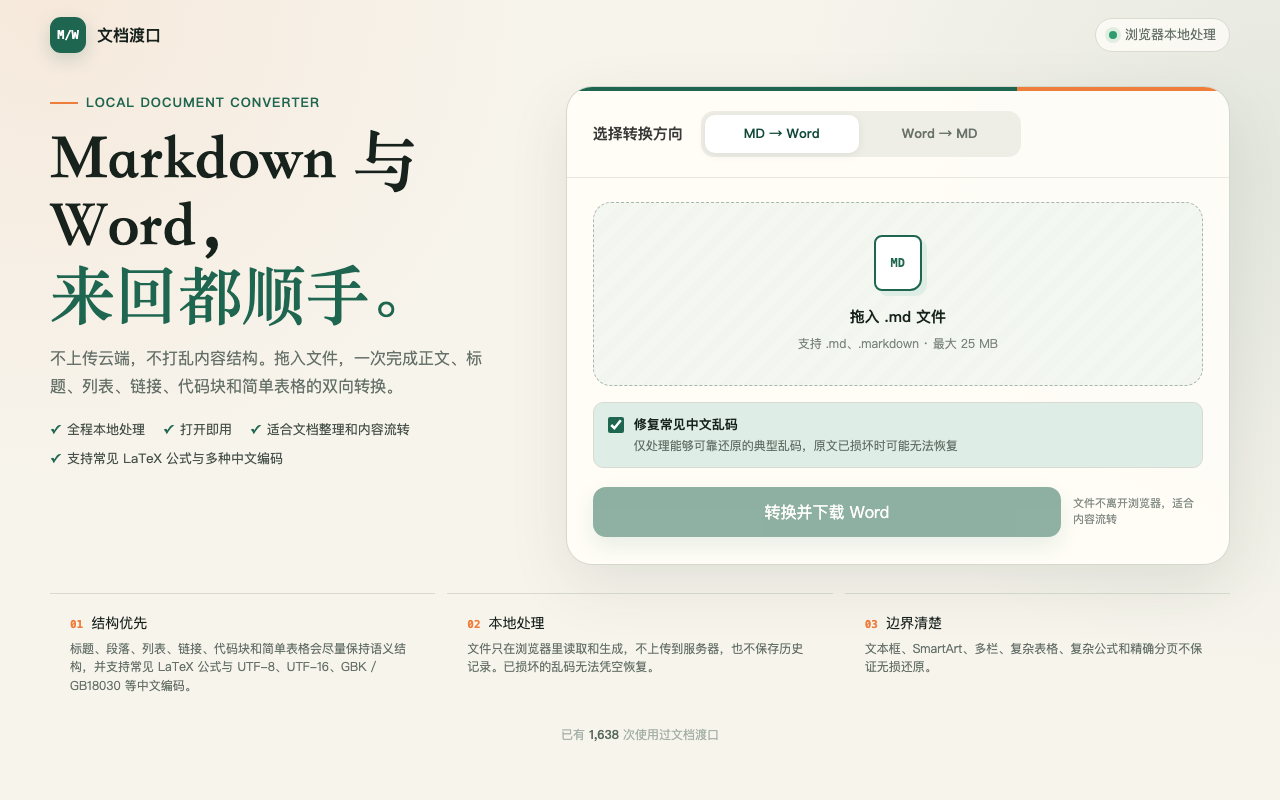
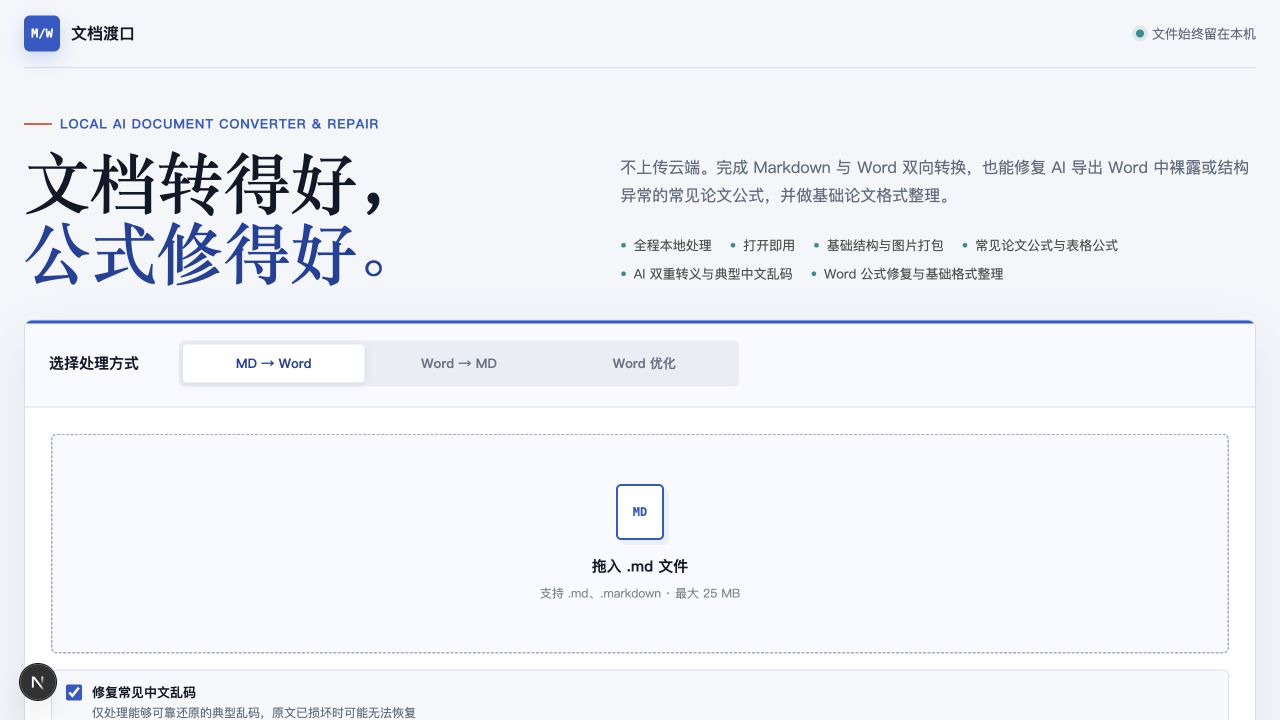
更新文档渡口作品集展示

diff --git a/app/content.ts b/app/content.ts
@@ -127,10 +127,10 @@ export const aiProjects = [
     status: "已上线",
     title: "文档渡口 · AI 文档转换与公式修复",
     summary:
-      "浏览器本地完成 Markdown 与 Word (.docx) 双向转换，也能把 AI 导出 Word 中裸露的常见公式源码修复为可编辑公式。长论文 51 个公式、真实 Word 样本 71 个公式回归均实现源码残留为 0，并保留失败位置与人工检查提示。",
-    proof: ["本地处理", "MD ↔ Word", "51 / 71 公式回归", "源码残留 0"],
+      "浏览器本地完成 Markdown 与 Word (.docx) 双向转换，支持常见论文公式、表格公式、AI 双重转义和典型中文乱码处理；Word 优化还能修复裸露或结构异常的公式、整理基础论文格式，并输出修复结果与需人工检查的位置。长论文 51 个公式、真实 Word 样本 71 个公式回归均实现源码残留为 0。",
+    proof: ["本地处理", "MD ↔ Word", "Word 公式修复", "失败位置报告"],
     image: "/ferry-tool.png",
-    imageAlt: "文档渡口在线工具界面截图",
+    imageAlt: "文档渡口新版在线工作台界面截图",
     href: "/ferry",
     linkLabel: "打开在线版本",
   },
